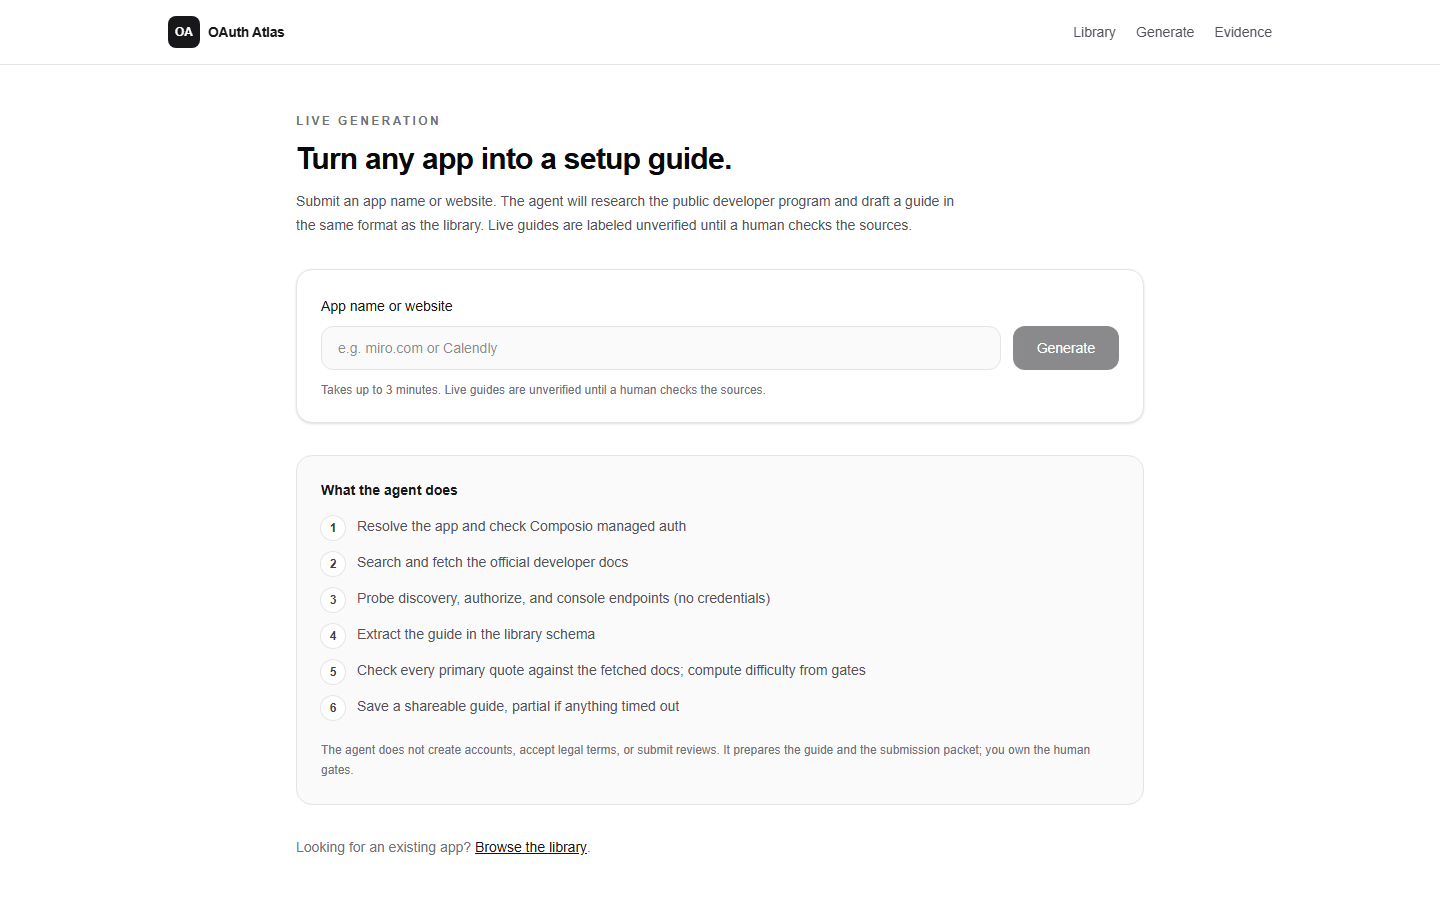
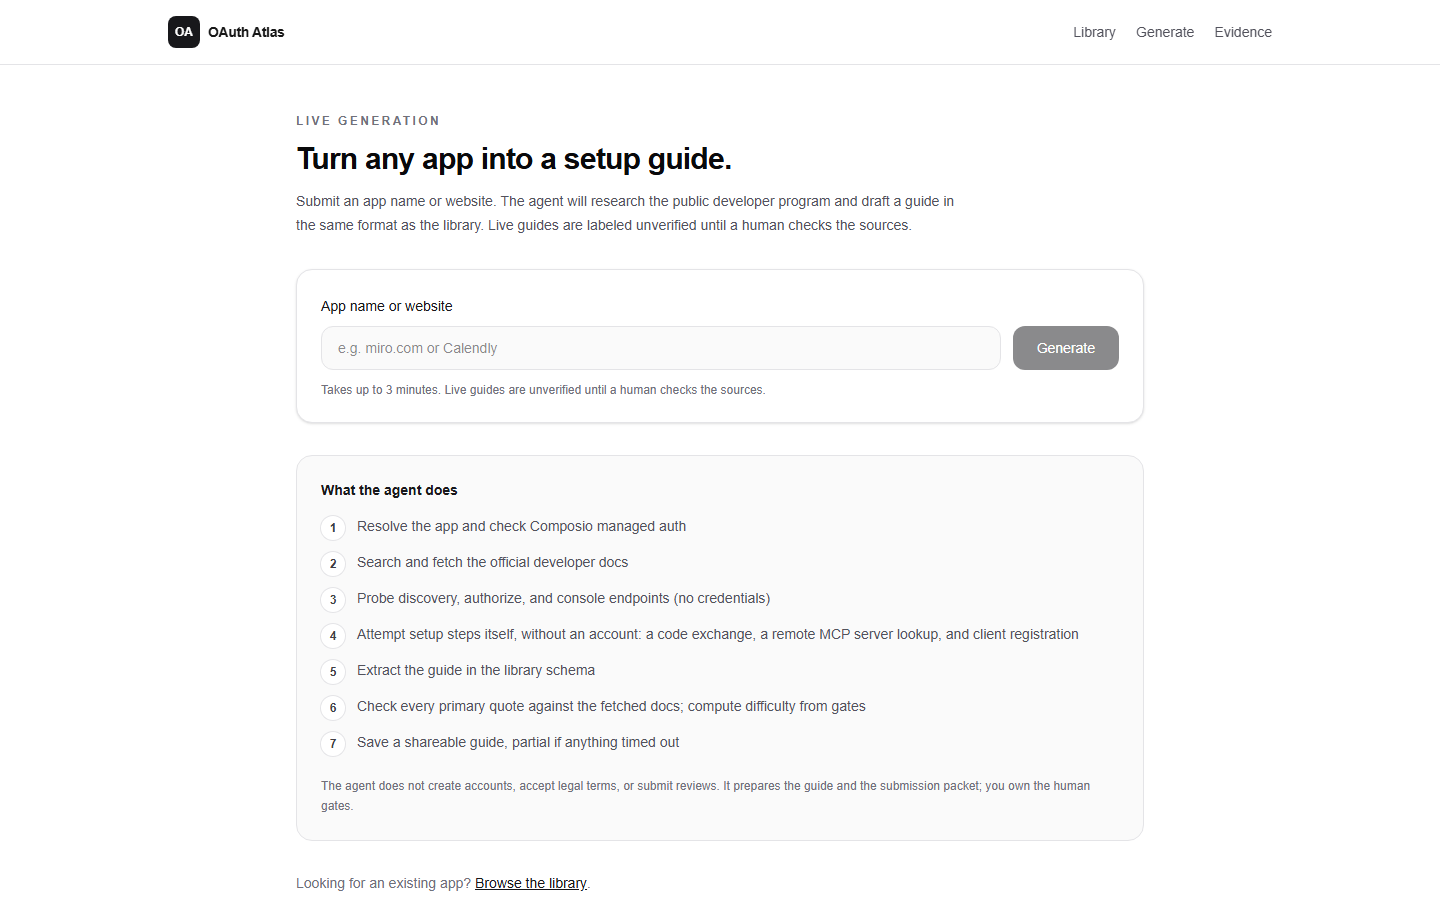
T-016: recapture screenshots from the new production deploy

Changed region(s): [[0.2188, 0.6844, 0.75, 0.9022], [0.2188, 0.9333, 0.4062, 0.9956]]

diff --git a/STATUS.md b/STATUS.md
@@ -23,7 +23,7 @@
 - **T-014 (2026-10-28, post-submission): automated setup attempts.** New `attempt` step (`lib/agent/attempt.ts`): fake-code exchange, remote MCP discovery, unparseable client-registration request. Facts written as `tested` / `testKind: "attempt"`; "Setup attempts" section on the guide and in Markdown. `npm run check` green (254 tests), e2e 5/5. Live check on 10 apps logged in `docs/verification-log.md`. T-011 (human-logged-in console attempts) stays cut.
 
 - **T-015 (2026-10-28): real setups.** Linear set up for real end to end through its MCP server (`scripts/verify-mcp-setup.ts`, record in `docs/evidence/`). GitHub app creation verified; real sign-in pending. Notion pending. Production LLM moved to Azure OpenAI (`gpt-6-sol`) via `OPENAI_BASE_URL`.
-- **T-016 (2026-10-28): repo completeness.** `docs/USAGE.md`, `docs/screenshots/` (captured from production), author metadata, site footer, README in Aryan's voice; fixed the "no wait wait" chip and the stale `/generate` steps list.
+- **T-016 (2026-10-28): repo completeness.** `docs/USAGE.md`, `docs/screenshots/` (captured from production), author metadata, site footer, README in Aryan's voice; fixed the "no wait wait" chip and the stale `/generate` steps list. Deployed to production (dpl_CsiQKkjGP8vJNfok3Y2L7nbLiUJr): all routes 200, `/.env` 404, footer and fixes live; a live Asana run completed in 2 min 18 s with 0 of 26 claims downgraded. Screenshots recaptured from this deploy.
 
 ## In progress
 
